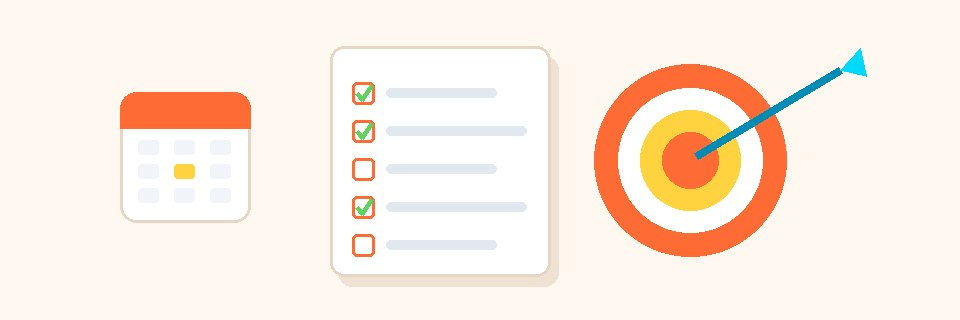
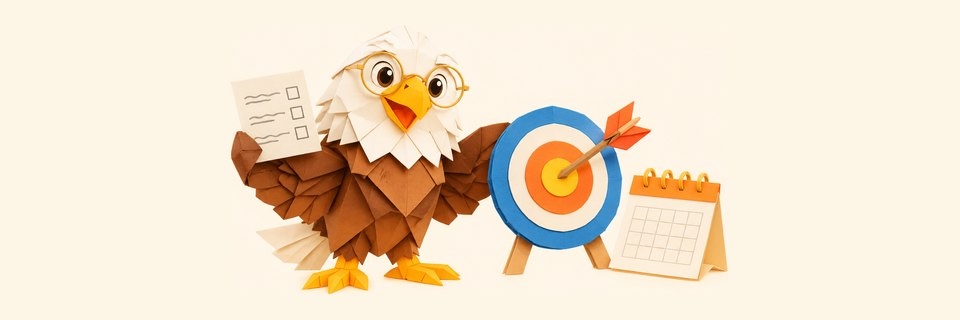
fix(试卷库): 今日小卷卡片换成正式的折纸鹰图(地址加 v=2,躲开 30 天缓存)

diff --git a/frontend/src/pages/StudentDashboard_New.tsx b/frontend/src/pages/StudentDashboard_New.tsx
@@ -457,7 +457,7 @@ const StudentDashboard = () => {
     { title: '线上课堂', desc: '看老师直播、查课件', route: '/student/live', image: '/tools/live.jpg' },
     // 今日小卷: 放前 4 个里(一眼看得到);做完了写做完了
     ...(paperQuiz?.enabled
-      ? [{ title: '今日小卷', route: '/student/paper-quiz', image: '/tools/paper_quiz.jpg',
+      ? [{ title: '今日小卷', route: '/student/paper-quiz', image: '/tools/paper_quiz.jpg?v=2',
           desc: paperQuiz.today?.status === 'done' ? `今天的做完了,对 ${paperQuiz.today.right}/${paperQuiz.today.total}`
             : paperQuiz.today ? `做到 ${paperQuiz.today.answered}/${paperQuiz.today.total},接着做` : '从真题里挑你要补的点,每天一小份' }]
       : []),

diff --git a/CLAUDE.md b/CLAUDE.md
@@ -386,9 +386,10 @@ CORS_ORIGINS=http://localhost:3000,http://localhost:5173
   备份 /root/eh_db_before_paperbank_20261125_1652.db(quick_check ok)、/root/eh_code_before_paperbank_20261125_1652.tgz(8 个原有文件)、
   frontend/dist_bak_20261125_1652_paperbank。公网冒烟: 首页 / 登录 / 试卷库页 / 今日小卷页 200,四个新接口没登录 401(工作进程),
   句子积木音频 200;线上用小鹰老师的 Key 试拆一道 7.5 秒答案对(B)之后才把开放范围 off → hq(写了操作记录 system.paper_bank)。
-  ⚠ **今日小卷卡片图仍是本机画的占位图**: 上线时出图中转回 402「上游图片账户余额不足」/ 503「没有可用账号」(sunburst 和 gpt-image-2 都是),
-  中转恢复后在生产机用 image_tutor 那行的 Key 跑 `gen_student_tool_art.py --only paper_quiz`,图拿回来放 frontend/public/tools/ 提交再构建。
-  同一个出图 Key 也是孩子「单词记忆图」用的,中转没恢复前那边也画不出来(会退回次数)。
+  今日小卷卡片图: 上线时 image_tutor 那行的 Key 出图回 402「上游图片账户余额不足」/ 503「没有可用账号」(Key 自己的余额还有 70.69,是那个分组上游没号),
+  先用占位图上线;同日用户另给了一个出图 Key(只用来出这一张,没存进系统),gpt-image-2.5-sunburst 画好折纸鹰那张换上,
+  地址改成 /tools/paper_quiz.jpg?v=2(/tools/* 是 30 天 immutable 缓存,同名换图看过占位图的孩子一个月都换不掉)。
+  ⚠ 孩子「单词记忆图」用的还是 image_tutor 那行,那边没恢复前画不出来(会退回次数)。
   **只想停用不用回滚**: 管理端首页「试卷库 · 拆卷 AI」卡片开放范围改回「关」。**真要回滚**: 前端把 dist_bak_20261125_1652_paperbank 换回 dist;
   后端从 tgz 里解出 8 个原有文件覆盖回去(6 个新文件留着没人引用)、重启两个服务;新表留着不碍事。
   **上线后要看的**: 老师第一次传真卷拆得怎么样(标黄多少、卷名认没认出来);一份卷实际扣多少钱(按标价估一页 6–8 美分,中转钱包和小鹰老师共用)
